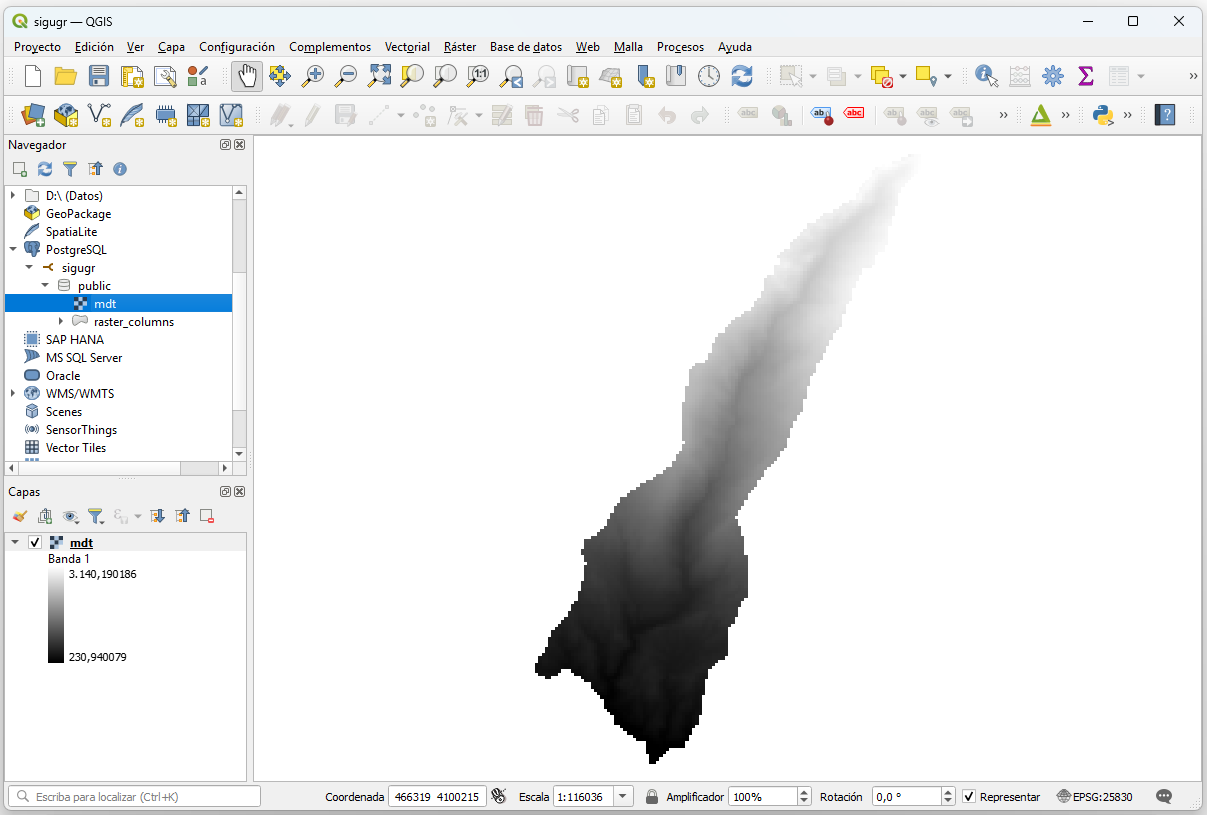
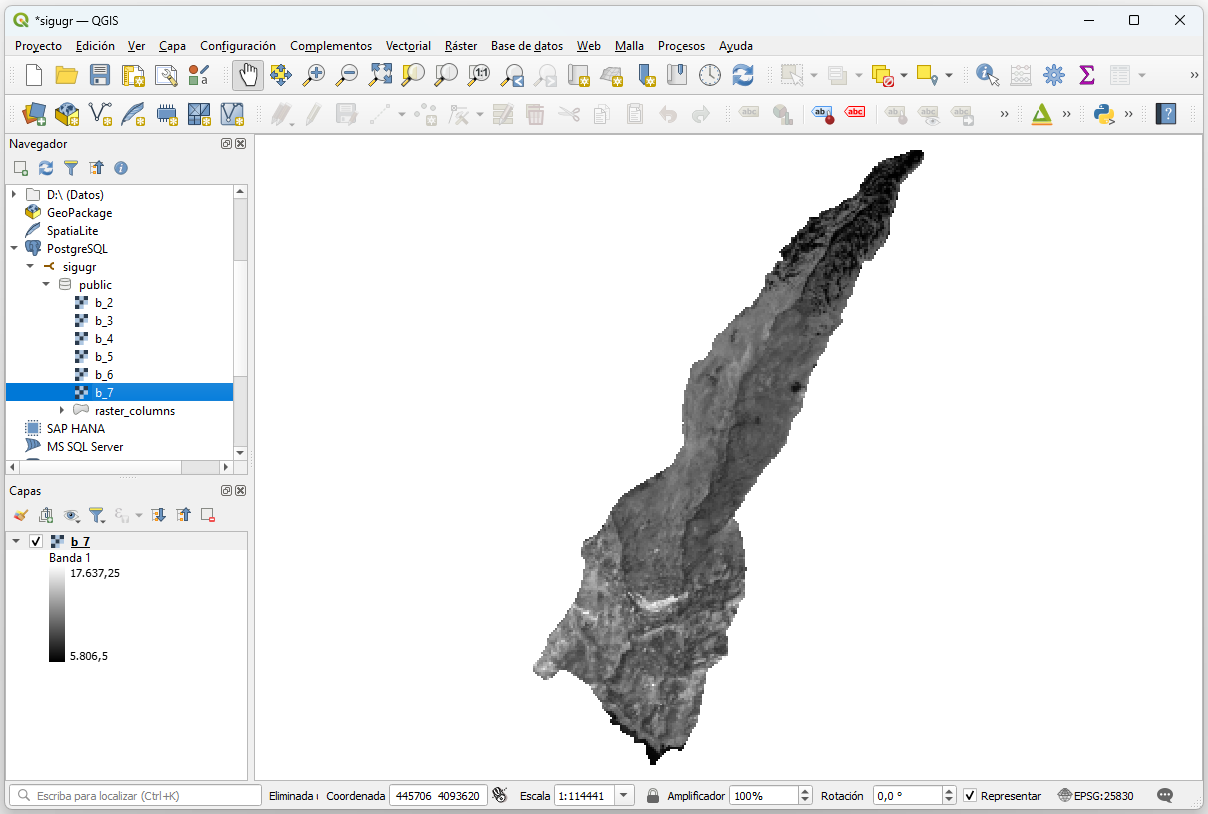
readme

diff --git a/README.md b/README.md
@@ -12,13 +12,13 @@ coverage](https://codecov.io/gh/josesamos/sigugr/graph/badge.svg)](https://app.c
 
 The workflow for geographic data typically involves:
 
-- **Data acquisition**: Many datasets are sourced from web downloads.  
-- **Data transformation**: This includes tasks such as raster
-  composition, resolution adjustments, clipping, reprojection, and style
+- Data acquisition: Many datasets are sourced from web downloads.  
+- Data transformation: This includes tasks such as raster composition,
+  resolution adjustments, clipping, reprojection, and style
   management.  
-- **Data storage**: Storing the processed data in databases, such as
+- Data storage: Storing the processed data in databases, such as
   PostGIS.  
-- **Data publication**: Making the data accessible via platforms like
+- Data publication: Making the data accessible via platforms like
   GeoServer.
 
 The goal of the `sigugr` package is to provide a comprehensive set of
@@ -45,7 +45,7 @@ To reduce their file size and enable inclusion here, their resolution
 was adjusted using the `aggregate_rasters` function provided by this
 package.
 
-Figure 1 below shows the original satellite bands.
+Figure 1 below shows the original satellite bands that we started with.
 
 ``` r
 library(sigugr)
@@ -111,17 +111,13 @@ conn <- DBI::dbConnect(
   password = "password"
 )
 
-table <- store_bands(sat_file, conn)
+tables <- store_bands(sat_file, conn)
 
 DBI::dbDisconnect(conn)
 ```
 
 The following Figure 3 shows the access from QGIS to one of the tables
 included in the database.
-
-``` r
-knitr::include_graphics("man/figures/qgis-postgis.png")
-```
 
 <div class="figure" style="text-align: center">
 
@@ -151,10 +147,6 @@ gso |>
 The result can also be viewed from QGIS by accessing the GeoServer
 instance via WMS, as shown in Figure 4.
 
-``` r
-knitr::include_graphics("man/figures/qgis-geoserver.png")
-```
-
 <div class="figure" style="text-align: center">
 
 <img src="man/figures/qgis-geoserver.png" alt="Figure 4: Accessing GeoServer from QGIS." width="100%" />
@@ -163,6 +155,23 @@ Figure 4: Accessing GeoServer from QGIS.
 </p>
 
 </div>
+
+Except for the functions used to connect to PostGIS and GeoServer, as
+well as those for accessing layers in files, the following function
+calls have been used to clip and reproject the satellite bands, store
+them in PostGIS, and publish them in GeoServer:
+
+``` r
+# Clip and reproject
+sat2 <- clip_raster(sat, polygon, keep_crs = FALSE)
+
+# Store in PostGIS
+tables <- store_bands(sat_file, conn)
+
+# Publish in GeoServer
+gso |>
+  publish_bands(sat_file)
+```
 
 Using data obtained from the web, we can easily transform, store, and
 publish it using the functions implemented in the package, as
